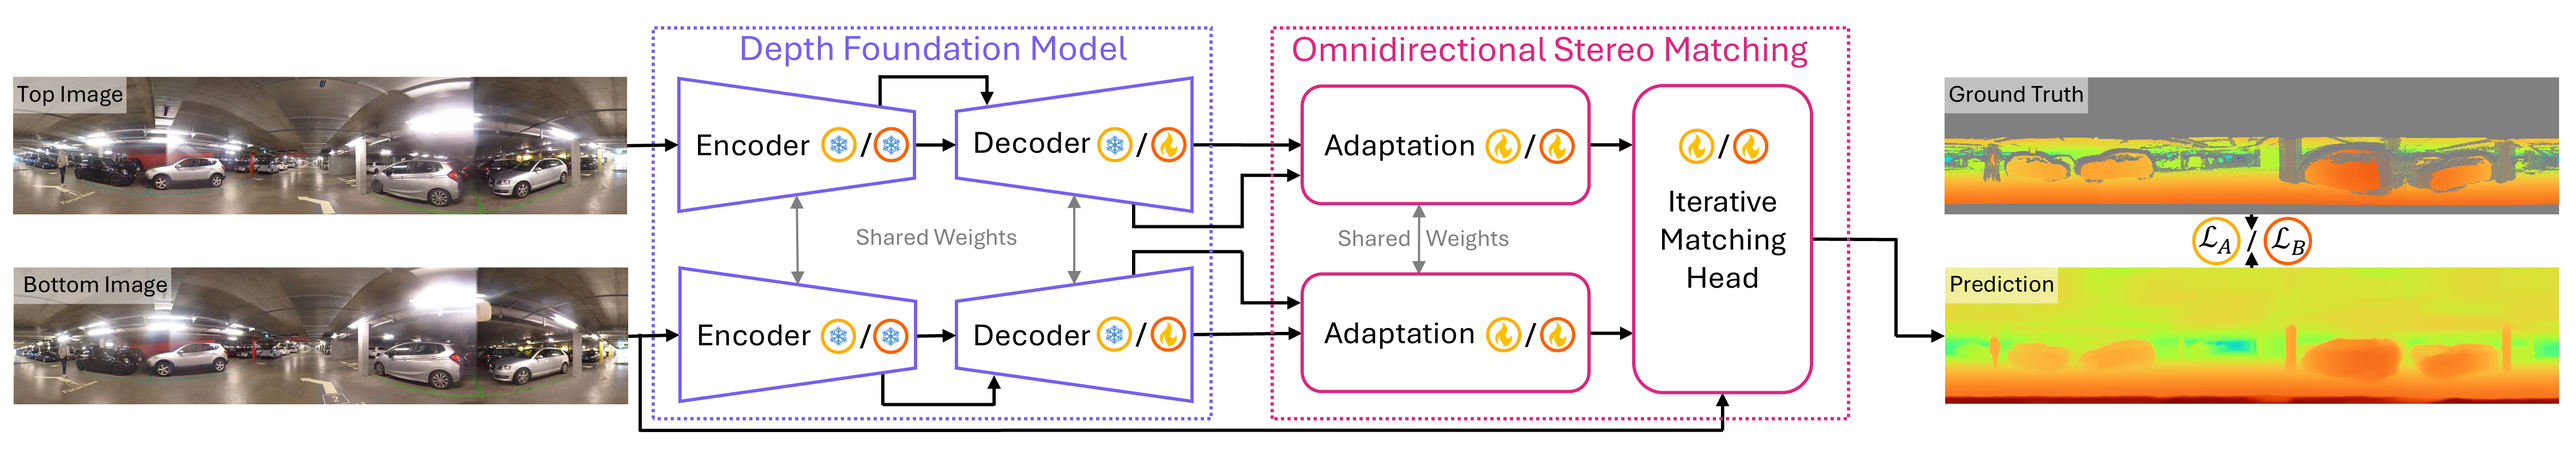
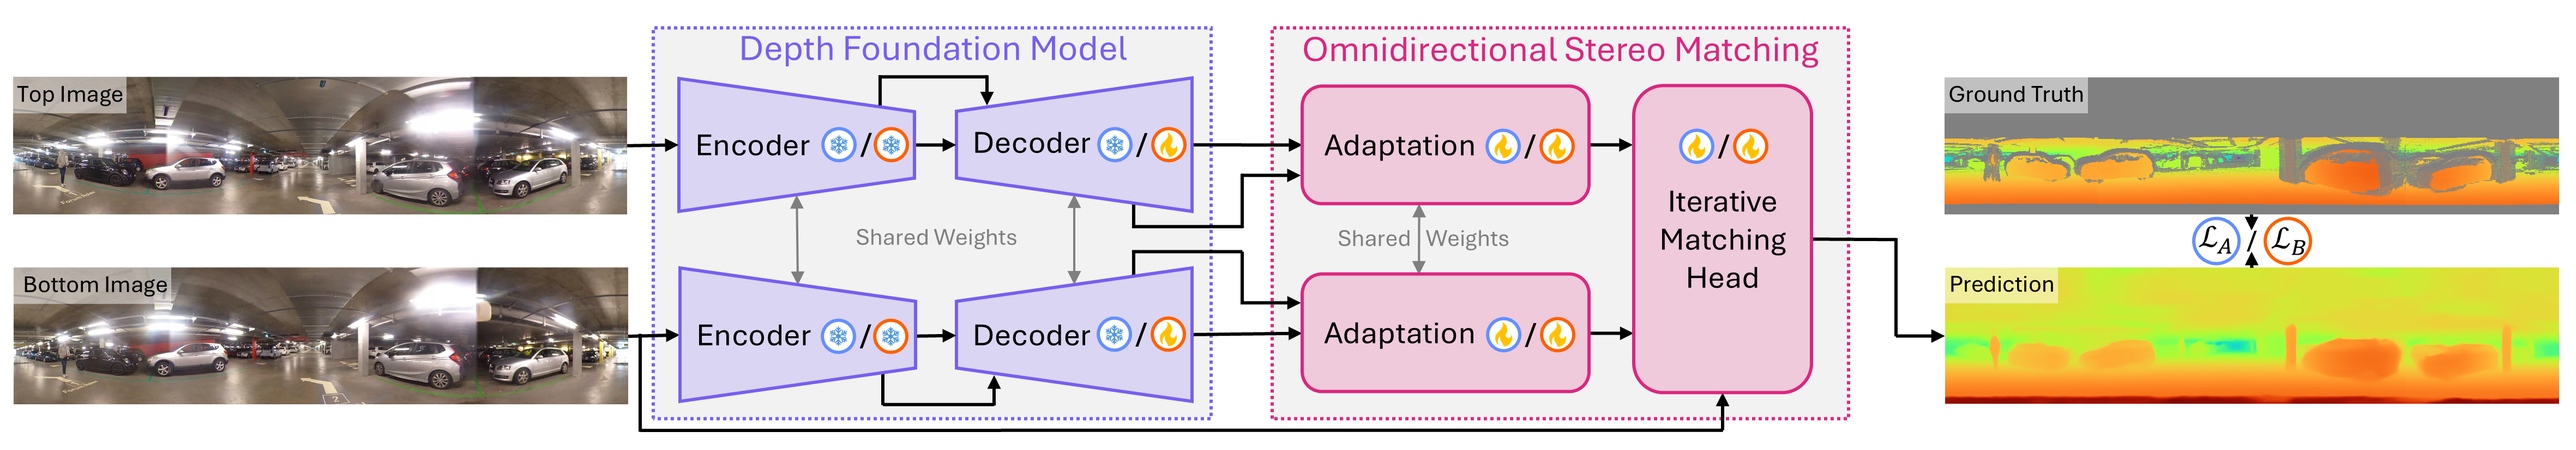
Website updated  (accepted at IROS)

diff --git a/index.html b/index.html
@@ -41,9 +41,10 @@
         <div class="column has-text-centered">
           <h1 class="title is-1 publication-title">Boosting Omnidirectional Stereo Matching
             with a Pre-trained Depth Foundation Model</h1>
+          <h2 class="subtitle has-text-centered"><b>IROS 2025</b></h2>
           <div class="is-size-5 publication-authors">
             <span class="author-block">
-              <a href="https://people.epfl.ch/jannik.endres">Jannik Endres</a><sup>1,2</sup>,</span>
+              <a href="www.linkedin.com/in/jannik-endres">Jannik Endres</a><sup>1,2</sup>,</span>
             <span class="author-block">
               <a href="https://olvrhhn.github.io/">Oliver Hahn</a><sup>2</sup>,</span>
             <span class="author-block">
@@ -95,6 +96,7 @@
                   <span>Paper</span>
                 </a>
               </span>
+              <!-- ArXiv Link. -->
               <span class="link-block">
                 <a href="https://arxiv.org/abs/2503.23502"
                    class="external-link button is-normal is-rounded is-dark">
@@ -104,6 +106,15 @@
                   <span>arXiv</span>
                 </a>
               </span>
+              <!-- Video Link. -->
+              <span class="link-block">
+                <a href="https://www.youtube.com/watch?v=CHDQBl_PPDo"
+                   class="external-link button is-normal is-rounded is-dark">
+                  <span class="icon">
+                      <i class="fab fa-youtube"></i>
+                  </span>
+                  <span>Video</span>
+                  </a>
               <!-- Code Link. -->
               <span class="link-block">
                 <a href="https://github.com/vita-epfl/DFI-OmniStereo"
@@ -204,7 +215,7 @@
                 cost volume construction. 
             </p>
             <p>
-                The training consists of two stages. In training stage A (<span class="ouryellow">yellow</span>), we adapt the stereo matching
+                The training consists of two stages. In training stage A (<span class="ourblue">blue</span>), we adapt the stereo matching
                 head to the omnidirectional data and the foundation model features (foundation model frozen) using a conventional stereo
                 matching loss \( \mathcal{L}_{A} \). In stage B (<span class="ourorange">orange</span>), we fine-tune the foundation model decoder and the stereo matching head, utilizing a
                 scale-invariant logarithmic loss \( \mathcal{L}_{B} \). Frozen and trainable modules are denoted with a snowflake and fire symbol, respectively.
@@ -362,11 +373,12 @@
 <section class="section" id="BibTeX">
   <div class="container is-max-desktop content">
     <h2 class="title">BibTeX</h2>
-    <pre><code>@article{endres2025dfiomnistereo,
-  author    = {Endres, Jannik and Hahn, Oliver and Corbière, Charles and Schaub-Meyer, Simone and Roth, Stefan and Alahi, Alexandre},
-  title     = {Boosting Omnidirectional Stereo Matching with a Pre-trained Depth Foundation Model},
-  journal   = {arxiv:2503.23502 [cs.CV]},
-  year      = {2025},
+    <pre><code>@inproceedings{endres2025dfiomnistereo,
+  author        = {Endres, Jannik and Hahn, Oliver and Corbière, Charles and Schaub-Meyer, Simone and Roth, Stefan and Alahi, Alexandre},
+  title         = {Boosting Omnidirectional Stereo Matching with a Pre-trained Depth Foundation Model},
+  booktitle     = {2025 IEEE/RSJ International Conference on Intelligent Robots and Systems (IROS)},
+  year          = {2025},
+  organization  = {IEEE}
 }</code></pre>
   </div>
 </section>
